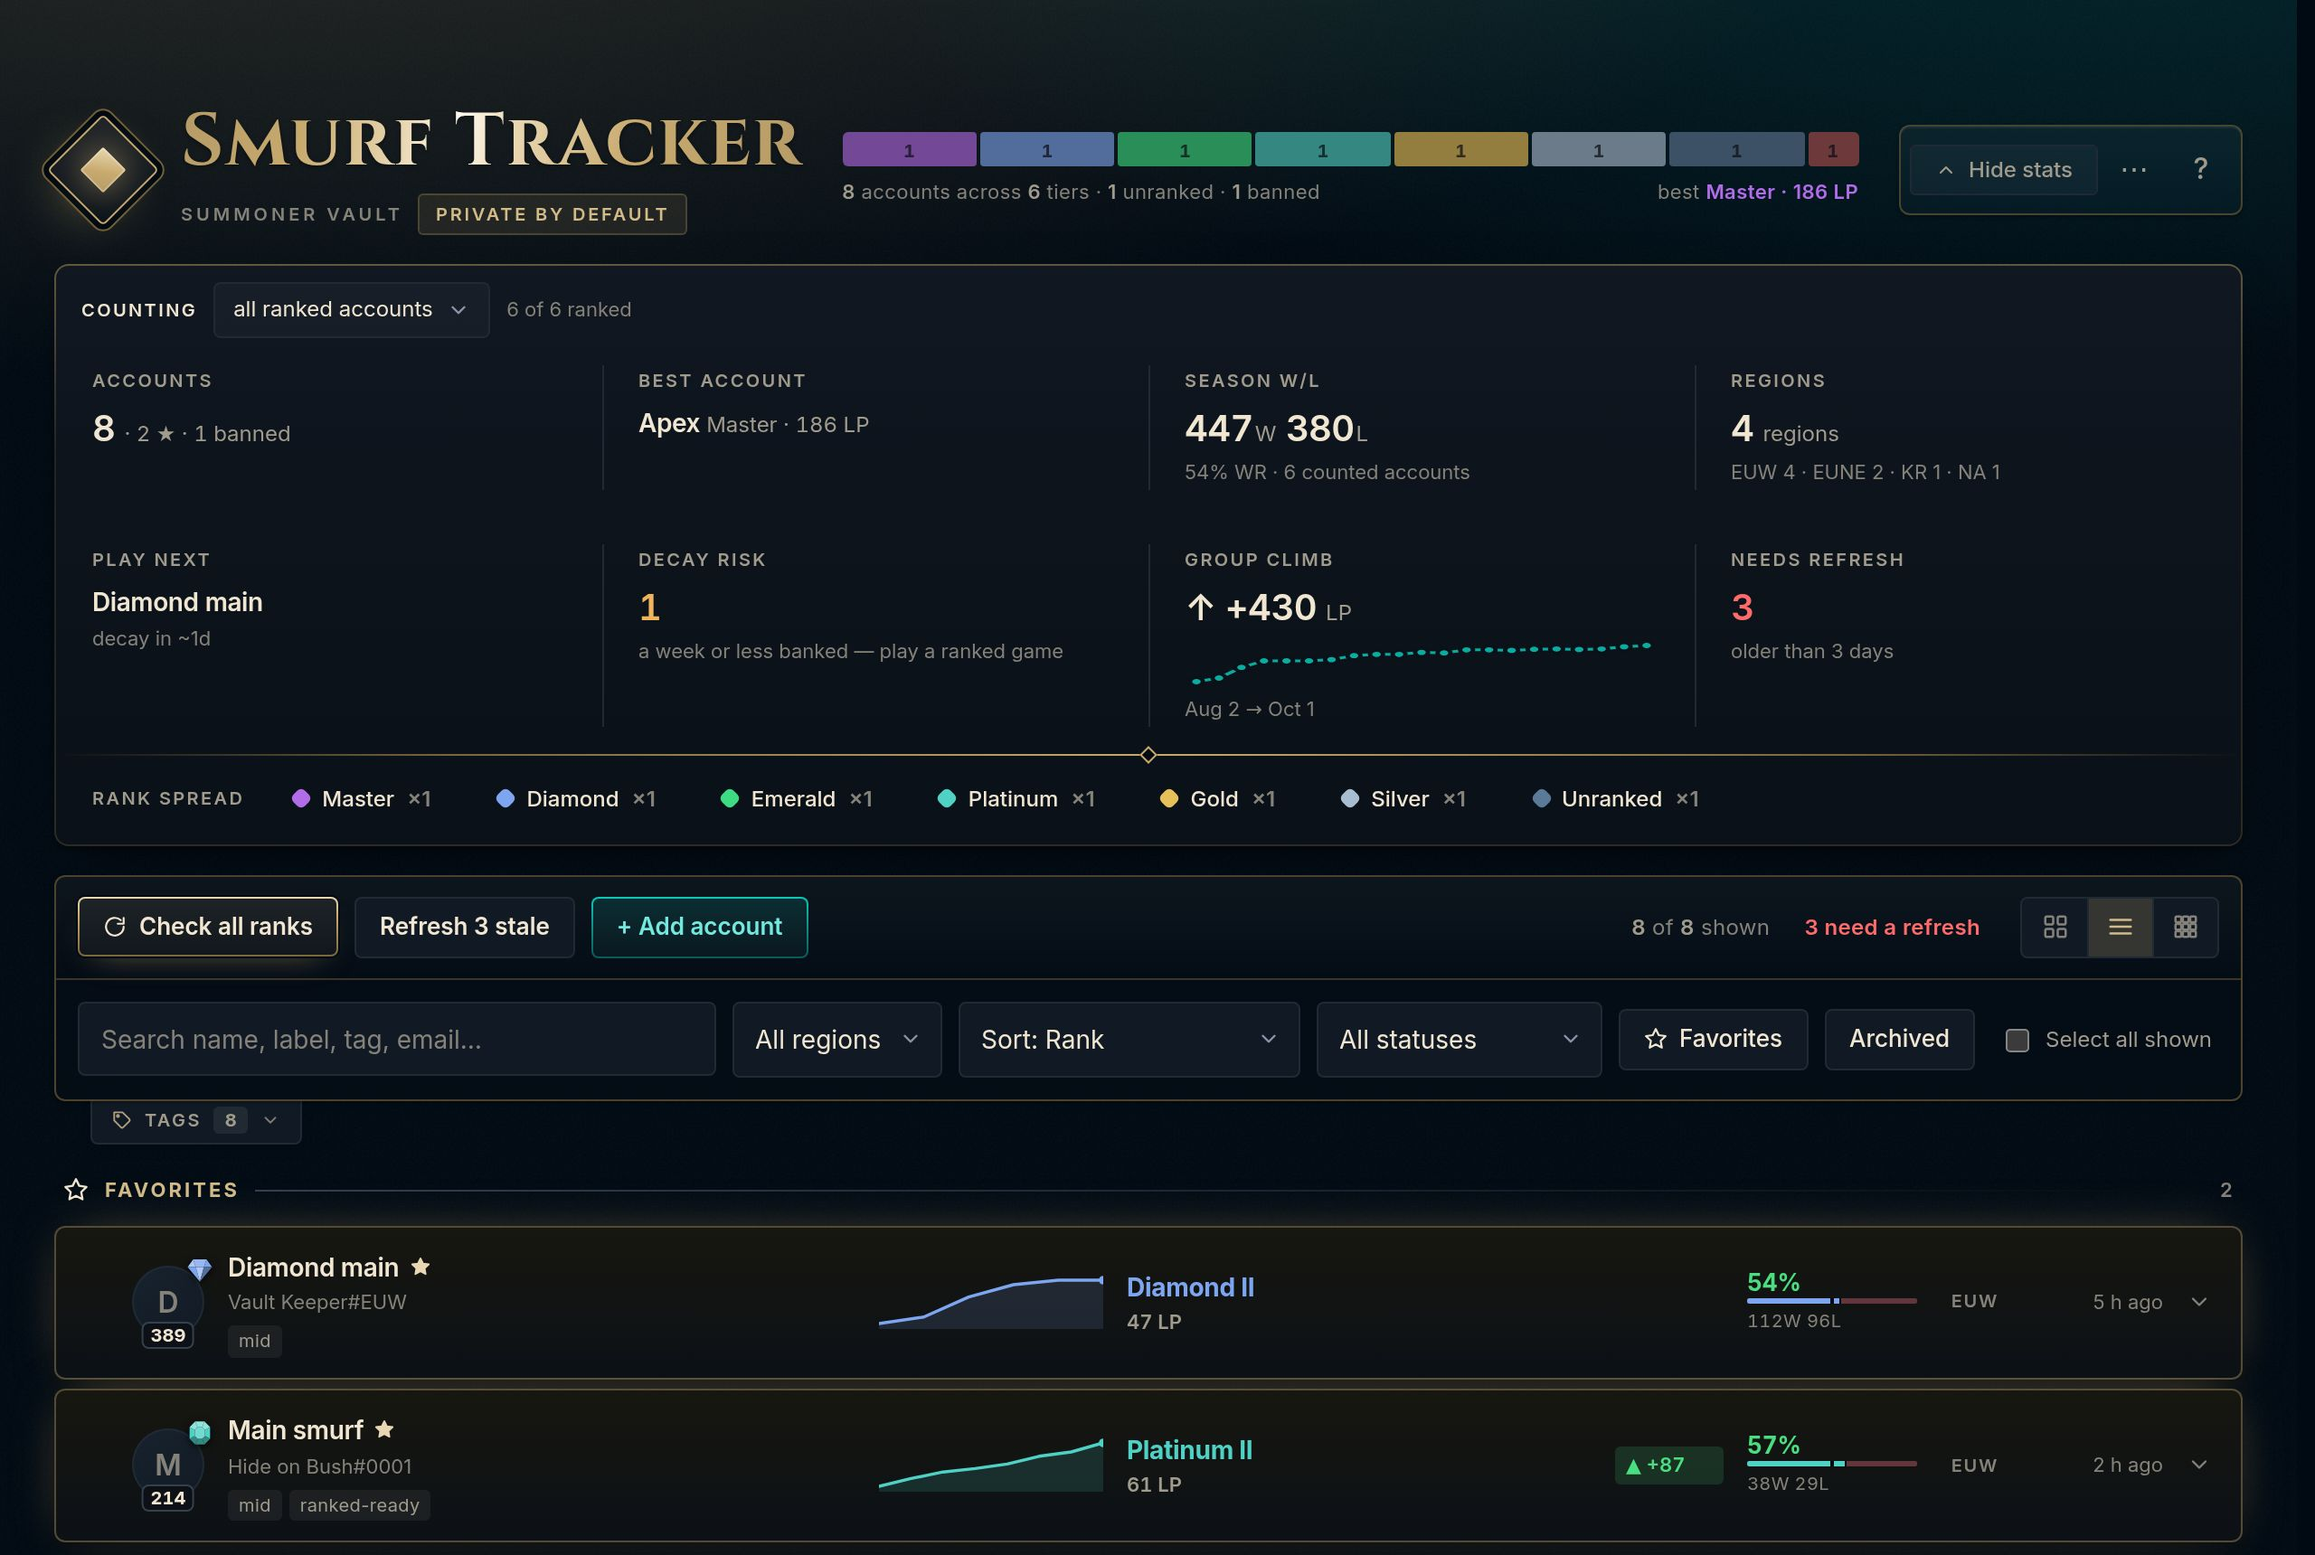
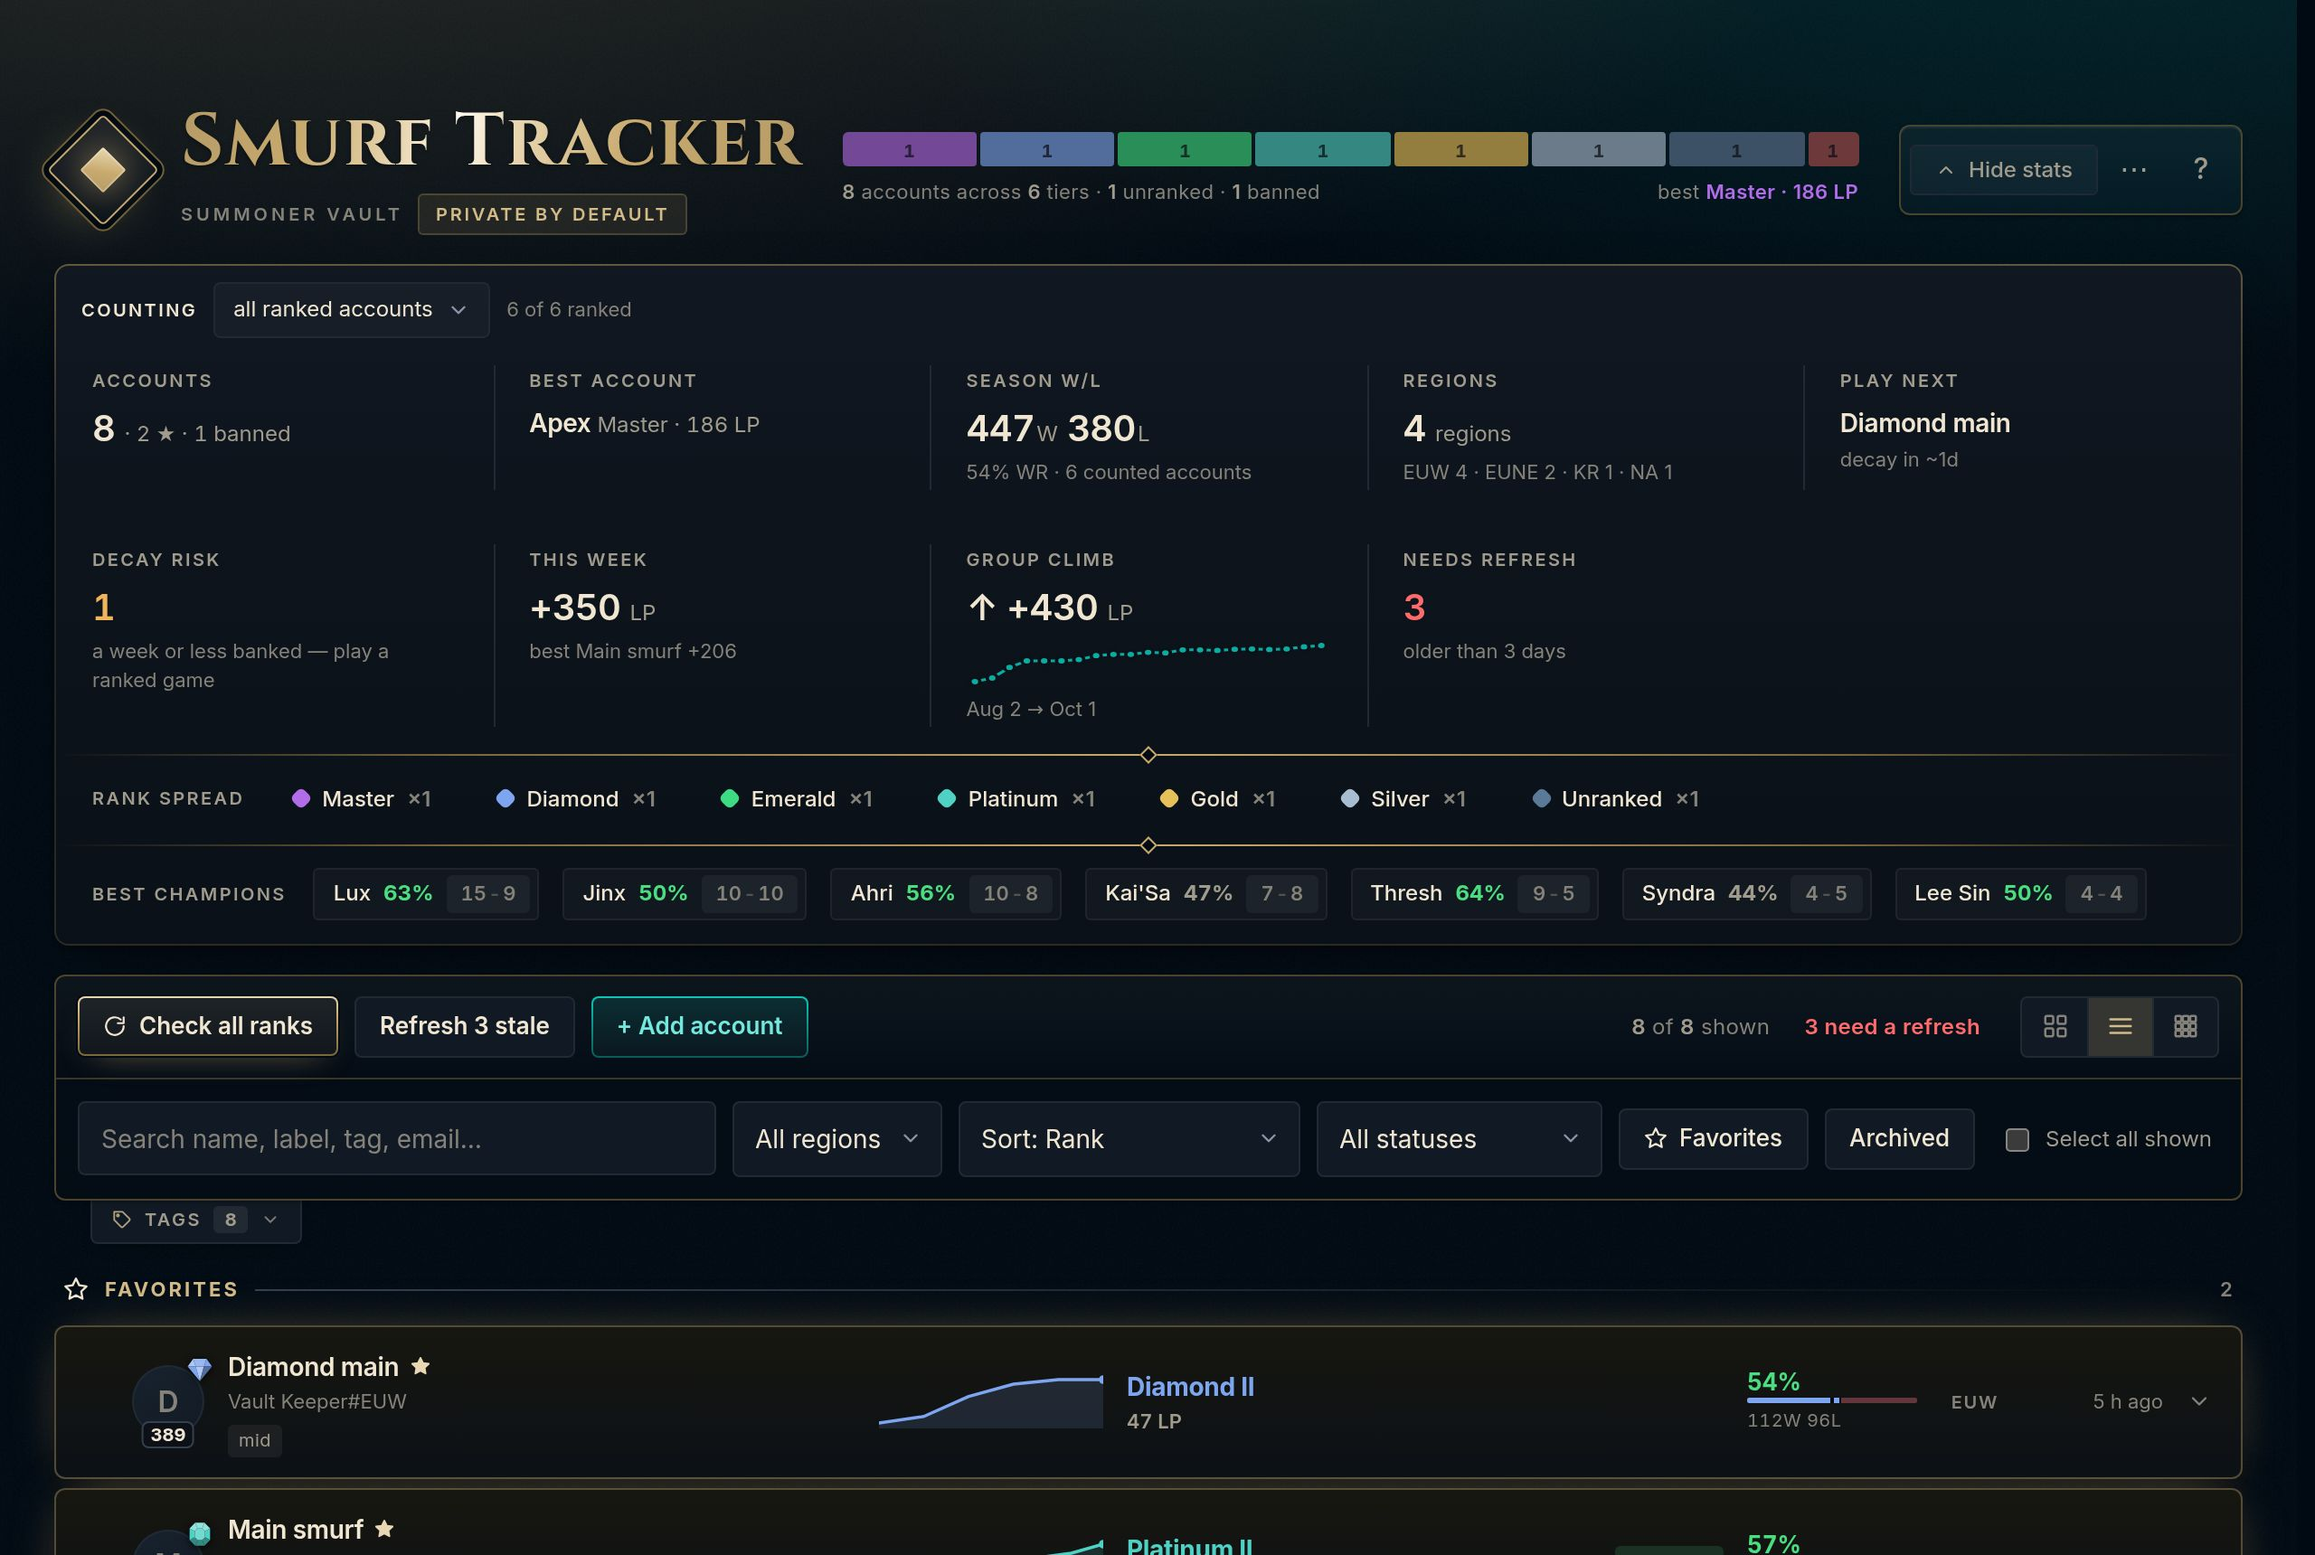
README: the 2.2 features, Discord alerts setup, fresh screenshots.
What it does gains themes and the card options, streamer mode, This week,
New season, the new bulk add sources, champ: and role:, and alerts. The
worker section lists mastery, streaks, roles and alerts; a new section
says how to make a Discord webhook and turn alerts on, and what a worker
deployed before 2.2 needs (the new code and its daily trigger). The
by-hand route mentions the Cron Trigger. Screenshots retaken.

Claude-Session: https://claude.ai/code/session_01NnamgZLnB9R1eN7rPhoByV

diff --git a/README.md b/README.md
@@ -12,11 +12,12 @@ Every League account you own in one place: rank, LP history, logins, notes. It r
 ## What it does
 
 - **Ranks without the busywork.** One click checks every account. Each card shows the tier, LP, win rate and level, plus an LP chart that draws the ladder as bands, so a promotion looks like one. Past seasons, flex rank and your champions sit under **Details**.
-- **Tells you what to play.** **Play next** picks the account that needs a game: one about to decay first, otherwise the one you have left longest. **Decay risk** estimates how many days a Diamond+ account has banked from the games seen between checks. **Needs refresh** counts the accounts whose rank is old.
+- **Tells you what to play.** **Play next** picks the account that needs a game: one about to decay first, otherwise the one you have left longest. **Decay risk** estimates how many days a Diamond+ account has banked from the games seen between checks. **This week** sums up the last seven days, and **Needs refresh** counts the accounts whose rank is old. With your worker, **decay alerts reach your Discord** even while the app is closed.
 - **Logins kept safe.** Username, password and email per account, hidden until you ask. Set a master password and everything is encrypted (AES-256, 600 000 PBKDF2 rounds), with auto-lock. **Copy username, then password** fills a login screen in two pastes, and copied passwords clear after 30 seconds.
-- **Three layouts.** Cards to browse, a list to work through a big vault, or a wall of rank crests to see the whole collection at once.
-- **Finds things fast.** Search names, tags and ranks, or combine filters like `>diamond is:stale`, `region:euw` or `is:decay`. Accounts still levelling show how far they are from 30, and `is:ready` lists the ones that can play ranked.
-- **Backups and sync.** Export a plain or encrypted backup, import a list of `Name#TAG`s at once, or sync phone and PC through your own worker. Only the encrypted vault is uploaded.
+- **Three layouts, your look.** Cards to browse, a list to work through a big vault, or a wall of rank crests to see the whole collection at once. Pick a theme (Hextech, Shadow Isles, Noxus, Piltover, Freljord, Ionia, Void, or one that follows your best rank), choose what each card shows, and set the effects and text size. Each card can carry its account's most-played champion as art.
+- **Streamer mode.** Press <kbd>H</kbd> and Riot IDs, logins, emails and notes are blurred, so you can stream or share your screen.
+- **Finds things fast.** Search names, tags and ranks, or combine filters like `>diamond is:stale`, `region:euw`, `is:decay`, `champ:yasuo` or `role:mid`. Accounts still levelling show how far they are from 30, and `is:ready` lists the ones that can play ranked.
+- **Backups and sync.** Export a plain or encrypted backup, add many accounts at once (a list of `Name#TAG`s, an op.gg multi-search link or the lobby chat), or sync phone and PC through your own worker. Only the encrypted vault is uploaded. A new split? **New season** moves every rank into Past seasons in one go.
 
 | List | Wall | Phone |
 |---|---|---|
@@ -37,7 +38,8 @@ Out of the box, rank checks read op.gg through free public proxies. That works m
 
 - faster, more reliable checks, plus the champion table and the dates your LP was actually reached;
 - **device sync** (the encrypted vault, nothing else);
-- with a Riot API key: ranks straight from Riot, accounts that keep their history when renamed, and your **last 5 ranked games** under Details.
+- with a Riot API key: ranks straight from Riot, accounts that keep their history when renamed, your **last 5 ranked games**, win streaks and roles, and **champion mastery** under Details;
+- **decay alerts on Discord** (Settings → Alerts), checked once a day even when the app is closed.
 
 [![Deploy to Cloudflare](https://deploy.workers.cloudflare.com/button)](https://deploy.workers.cloudflare.com/?url=https://github.com/MarvinPanVan/league-smurf-tracker)
 
@@ -52,7 +54,7 @@ Out of the box, rank checks read op.gg through free public proxies. That works m
 
 1. [dash.cloudflare.com](https://dash.cloudflare.com) → **Workers & Pages** → **Create** → **Create Worker** → name it → **Deploy**.
 2. **Edit code** → paste the whole of [`cloudflare-worker.js`](cloudflare-worker.js) → **Deploy**.
-3. For sync: **Storage & Databases → KV** → create a namespace, then in the worker **Settings → Bindings → Add → KV namespace**, variable name `VAULT`.
+3. For sync and alerts: **Storage & Databases → KV** → create a namespace, then in the worker **Settings → Bindings → Add → KV namespace**, variable name `VAULT`. For alerts, also add a Cron Trigger `17 9 * * *` under **Settings → Triggers**.
 4. Copy the `workers.dev` address into **Settings → Backend URL** in the app.
 
 </details>
@@ -76,6 +78,15 @@ A personal key allows 100 requests every 2 minutes, roughly 40 accounts. A bigge
 3. On each device, use the **same token and the same master password**, then **Push to cloud** and **Pull from cloud**. The newest write wins, and you are warned if the other side is newer.
 
 Keep every synced device on the latest version: since 2.1 the vault uses stronger encryption, which older versions cannot open. Reloading the page updates it.
+
+### Decay alerts on Discord
+
+1. In Discord: **Server Settings → Integrations → Webhooks → New Webhook**, pick the channel, **Copy Webhook URL**.
+2. In the app: **Settings → Alerts**, paste it, tick **Decay alerts on Discord**, **Save**.
+
+Once a day your worker re-reads your Diamond+ accounts and posts when one is about to decay, or has started to: once per change, not every day. For this it keeps a short list on your worker: those accounts' Riot IDs, labels and decay estimates, never logins.
+
+**Deployed your worker before 2.2?** It needs the new code and its daily trigger. Click **Deploy to Cloudflare** again, or paste the new [`cloudflare-worker.js`](cloudflare-worker.js) into your worker and add a Cron Trigger `17 9 * * *` under its **Settings → Triggers**. The app says so if your worker is too old.
 
 ## Development
 
